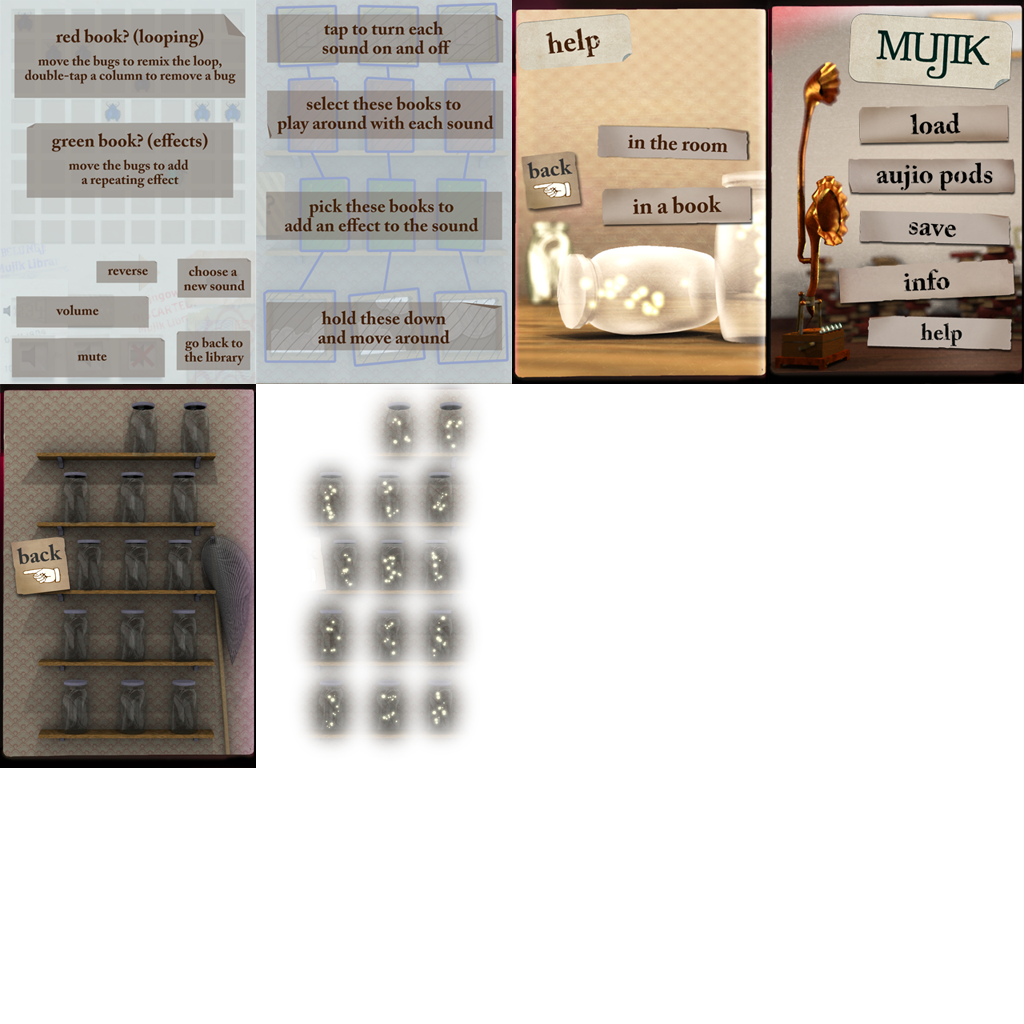
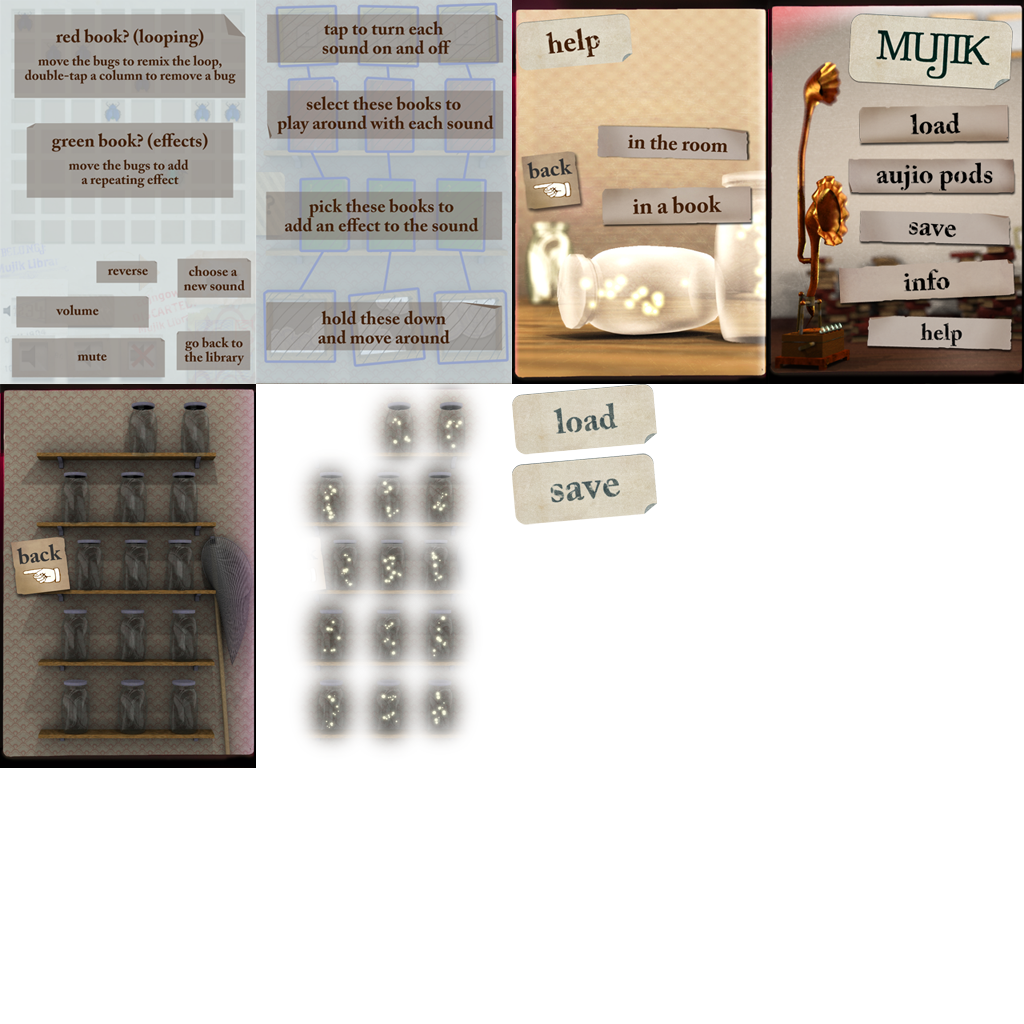
labels on the phrase saving / loading screen

Changed region(s): [[0.5, 0.375, 0.6562, 0.5312]]

diff --git a/src/controllers/phraseController.mm b/src/controllers/phraseController.mm
@@ -115,6 +115,11 @@
 			}
 		}
 	}
+	if(loading){
+		wallHelper->drawRect(6, 6, 145, 70, 512, 384, 2);
+	}else{
+		wallHelper->drawRect(6, 6, 145, 70, 512, 454, 2);
+	}
 	[super render];
 }
 
